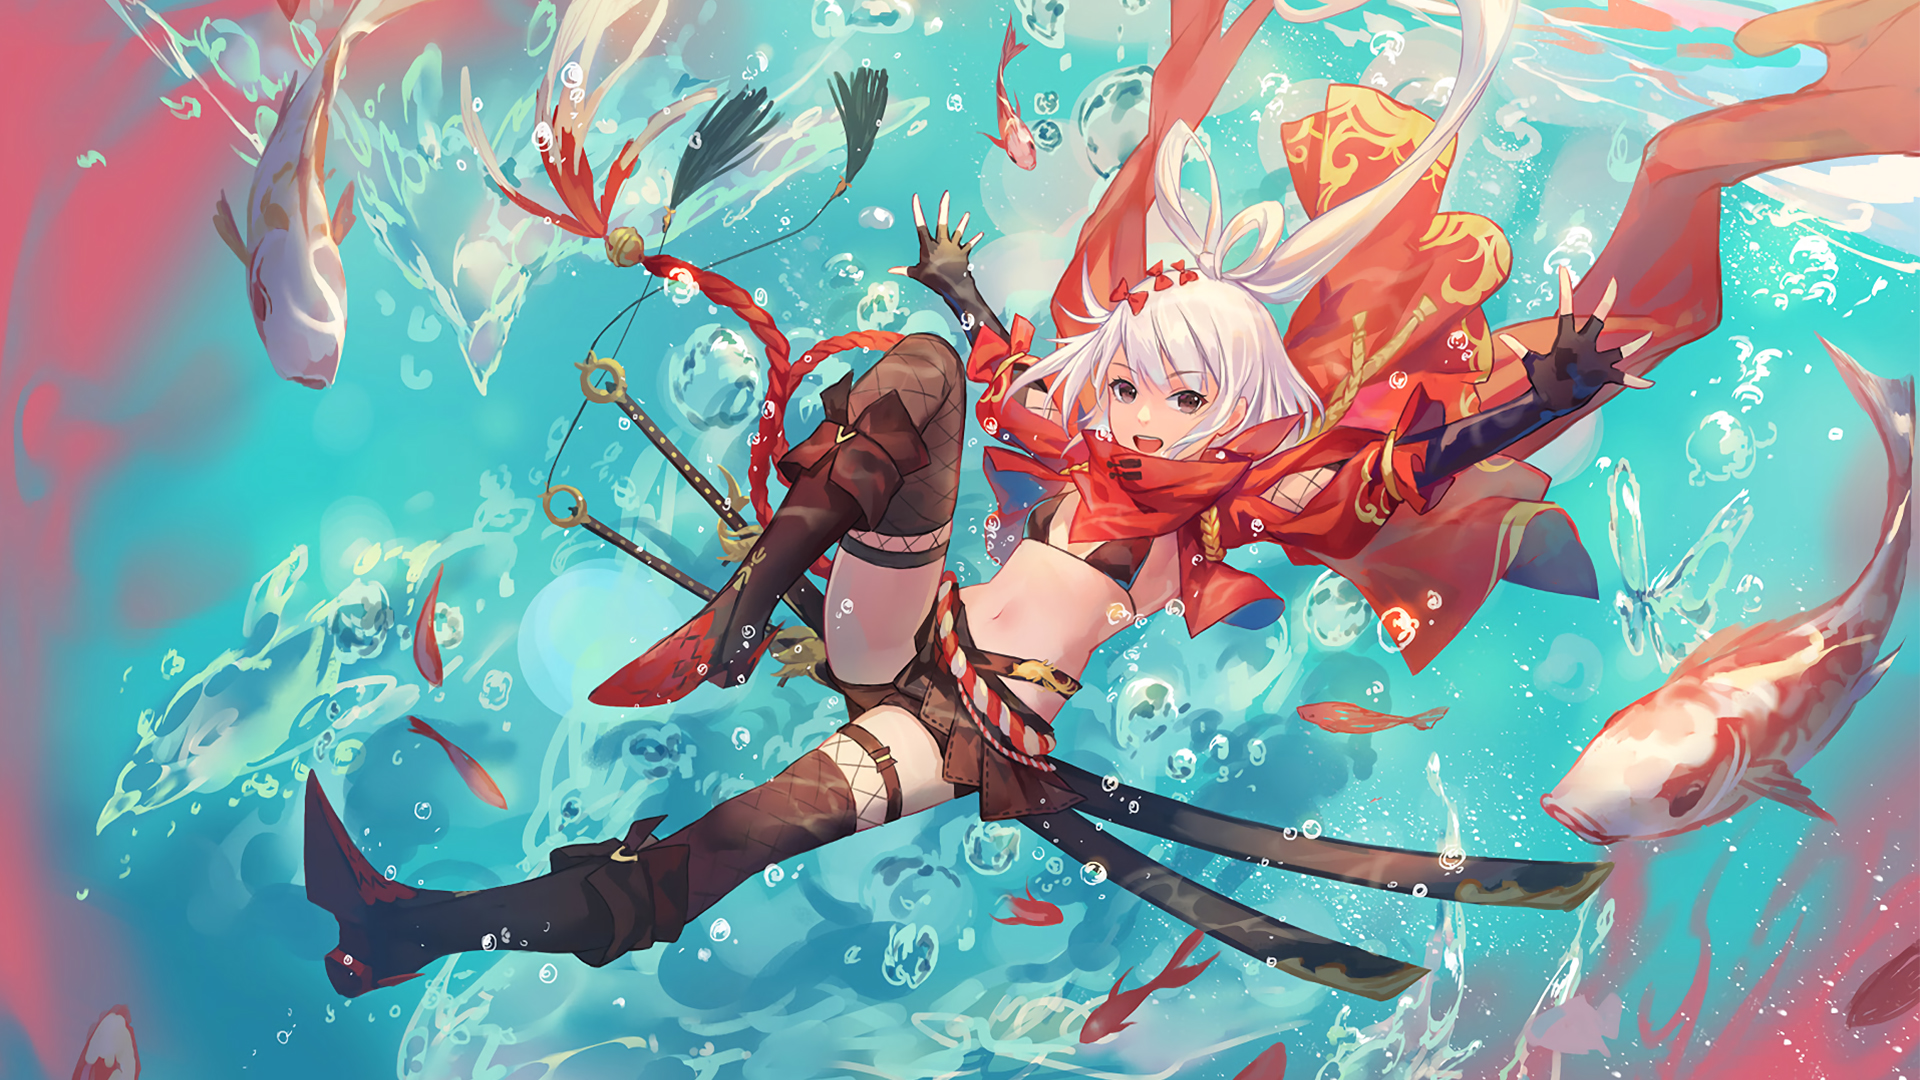
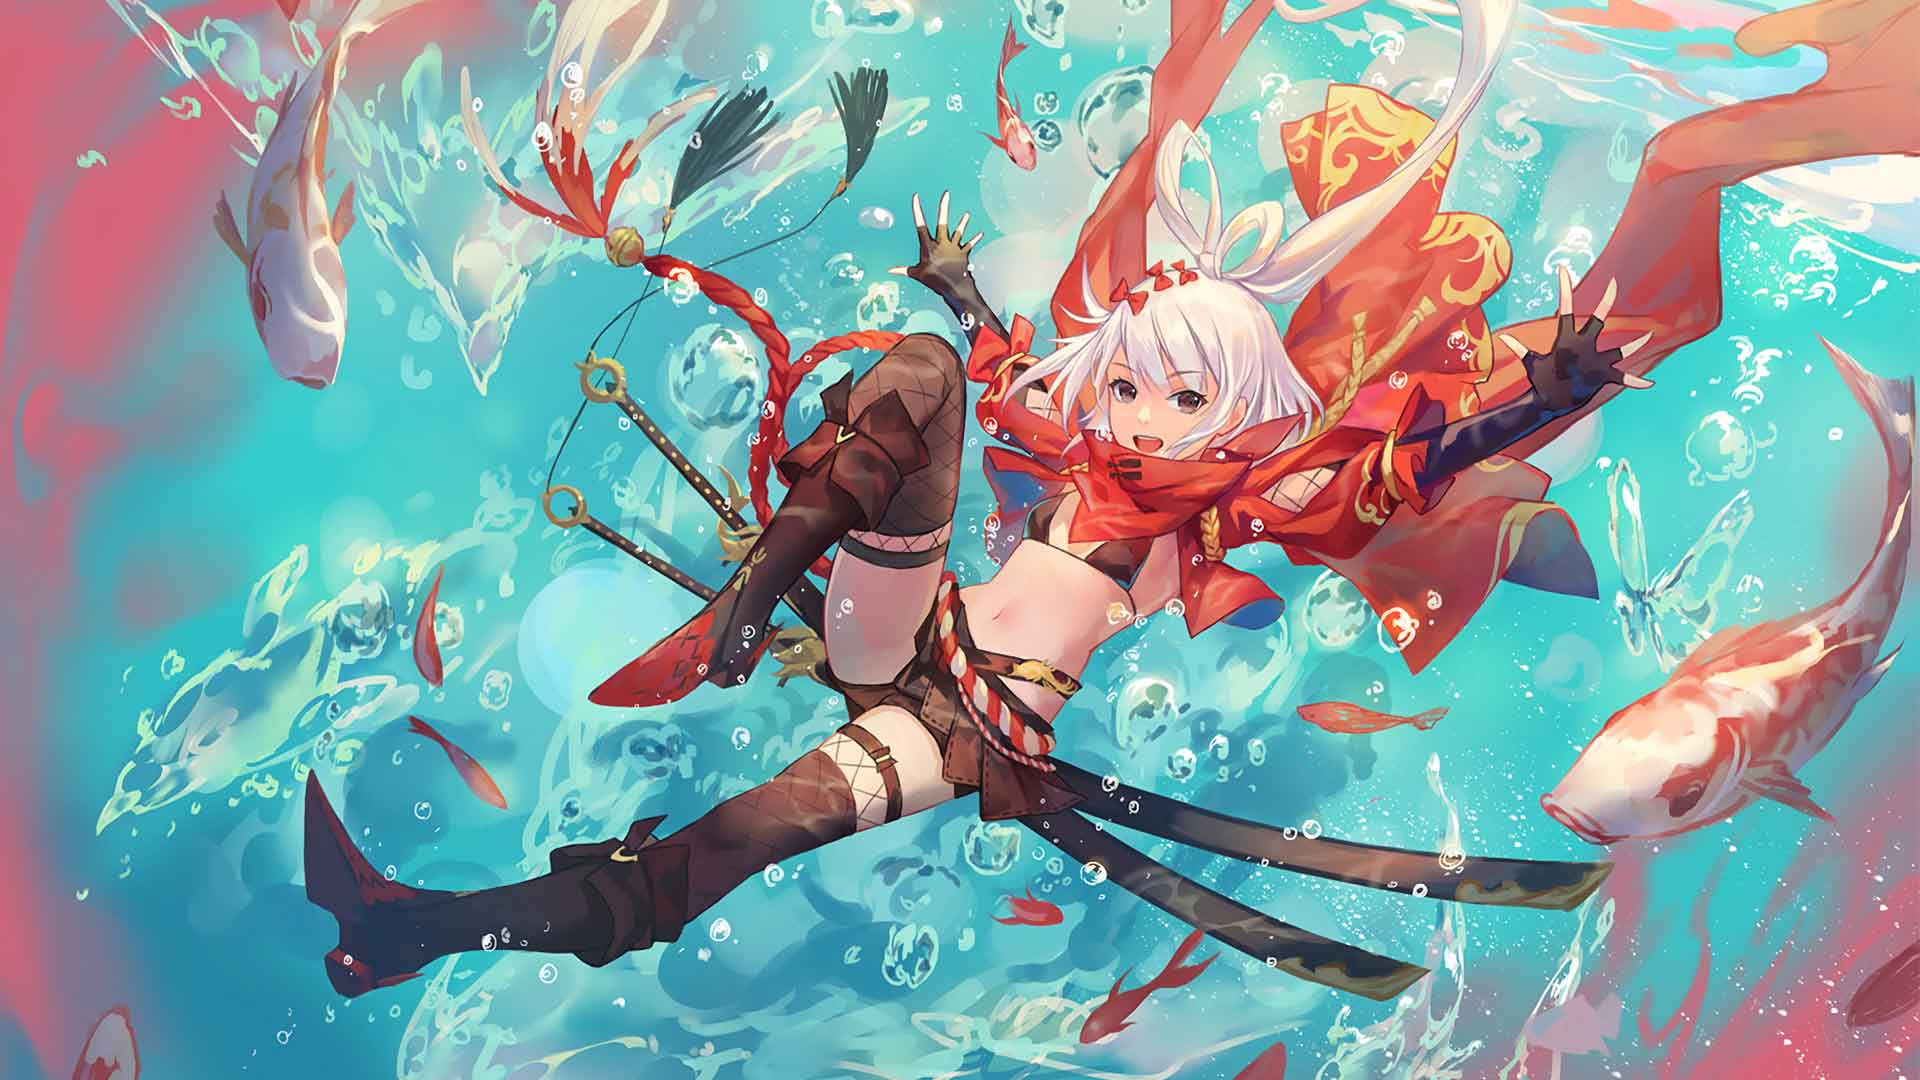
改图质量

diff --git a/shouye.html b/shouye.html
@@ -11,7 +11,7 @@
 		<script src="JavaScript/shouye.js"></script>
 	</head>
 	<body>
-	<img alt="湖水背景" src="image/3.png" class="bgp">
+	<img alt="背景" src="image/3.jpg" class="bgp">
 	<img alt="灯塔logo" src="image/search_logo.png" class="img" />
 	<form onsubmit="return search()" class="search-box">
 		<input autofocus id="search_input" class="search-txt" type="text" autocomplete="off" placeholder="Type to search">
